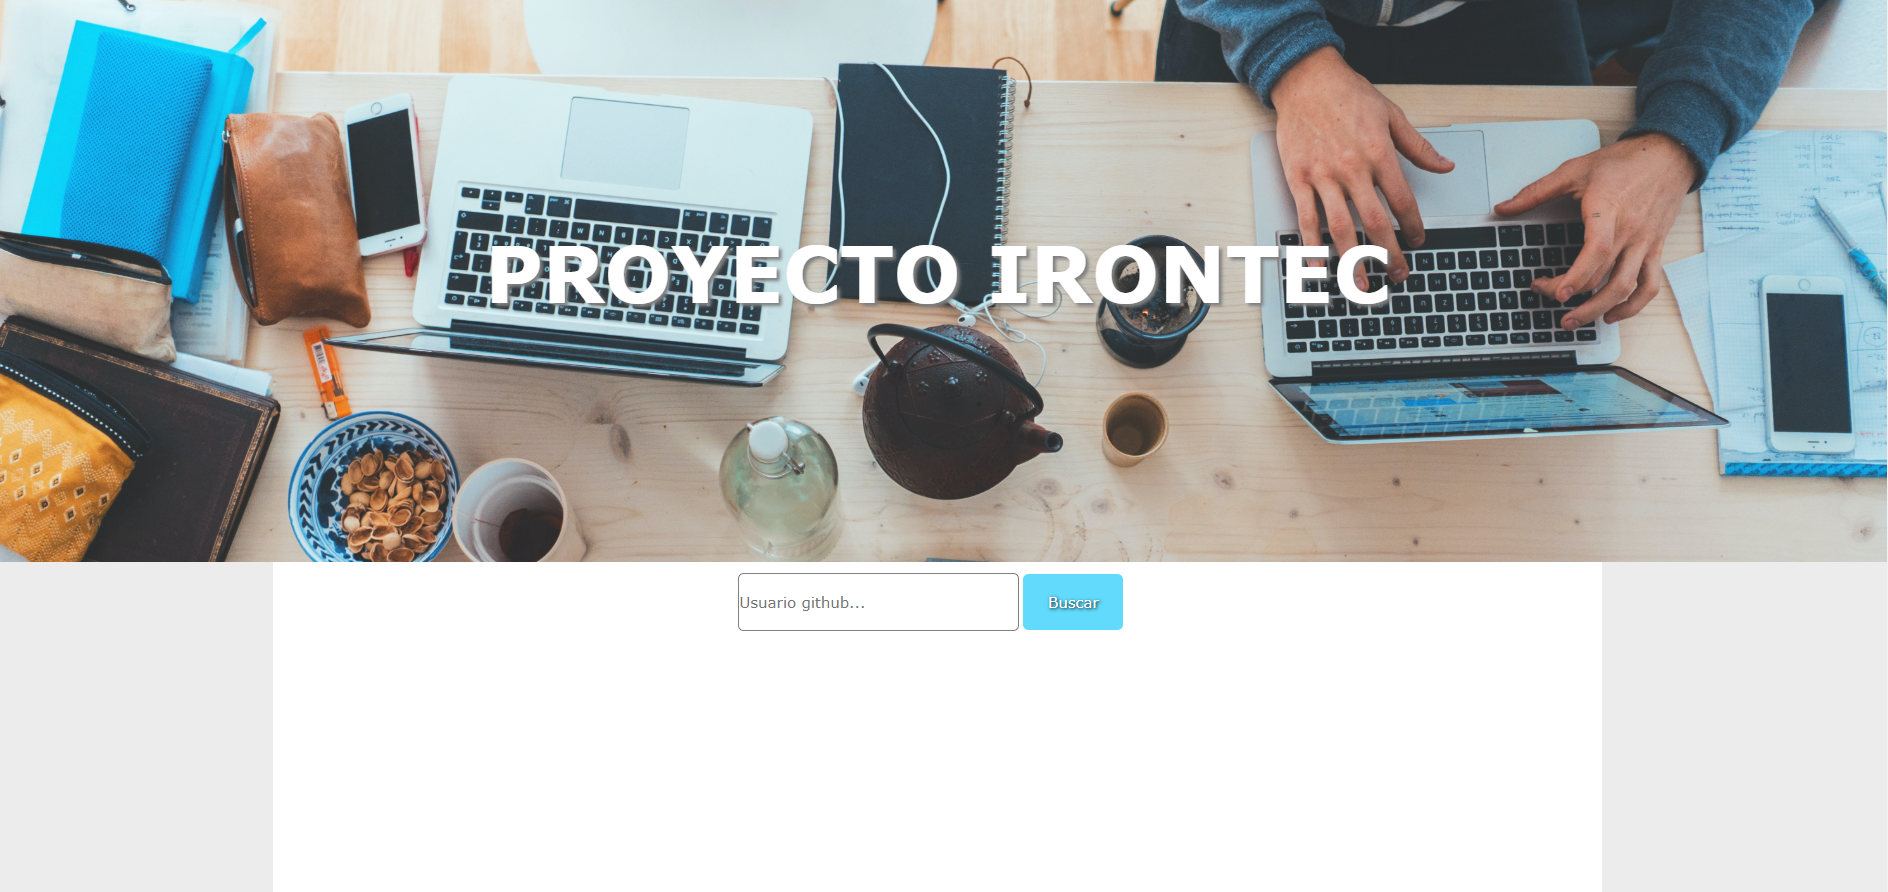
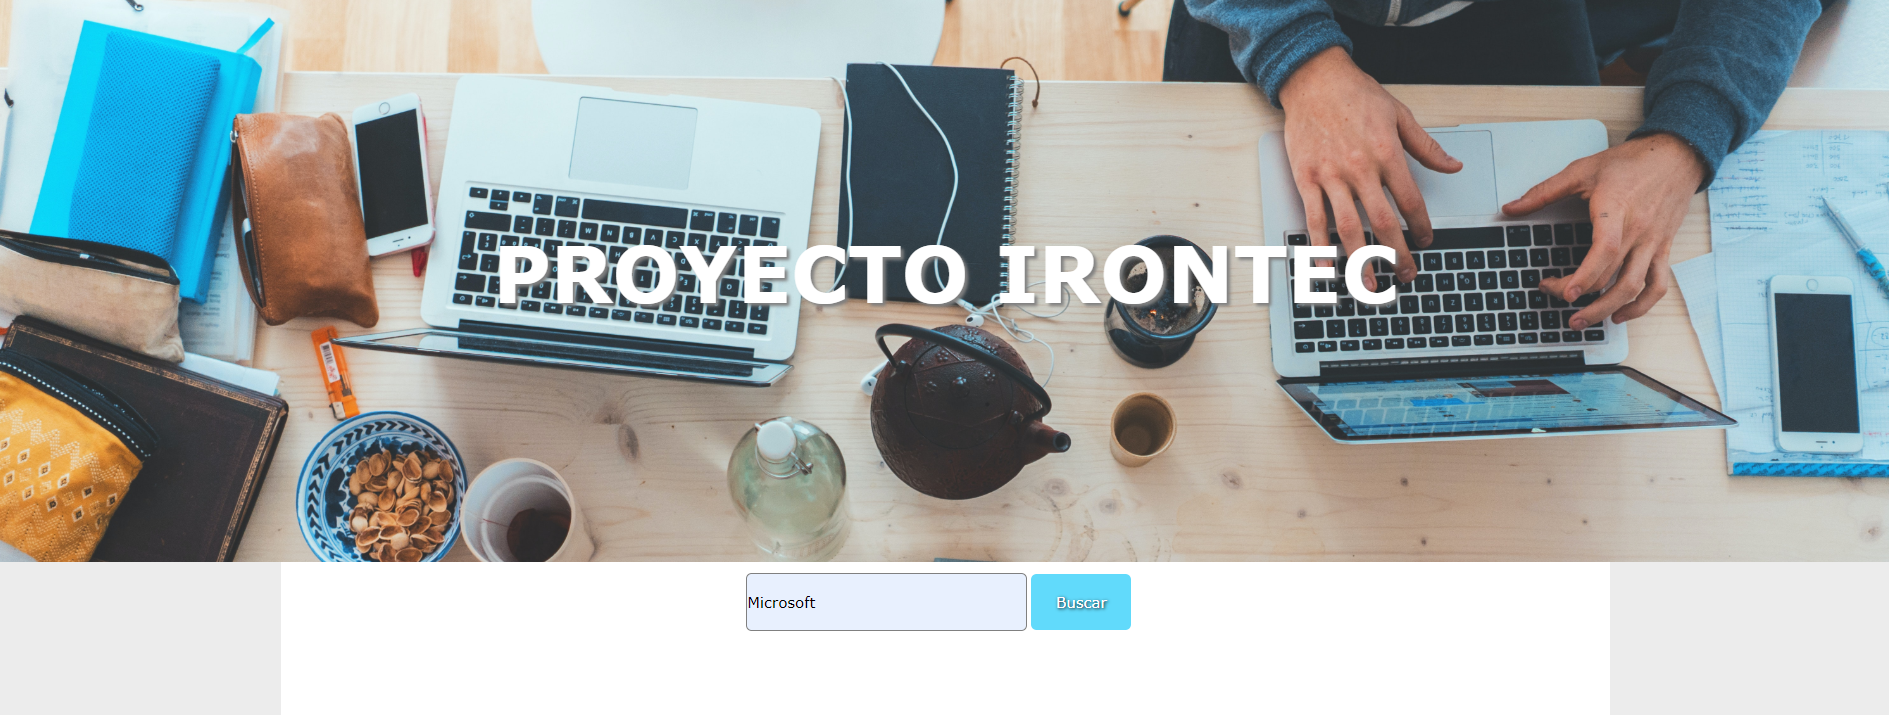
terminando los issues

diff --git a/src/app/pages/issues/issues.component.css b/src/app/pages/issues/issues.component.css
@@ -43,3 +43,48 @@
     /* background: blue; */
     float: left;
 }
+
+.divNombeRepositorio{
+    width: 100%;
+    height: 100px;
+    float: left;
+}
+
+.divNombeRepositorio h3{
+    text-align: center;
+    margin-top: 30px;
+}
+
+.divIssues{
+    width: 80%;
+    min-height: 50px;
+    margin-left: 10%;
+    /* margin-top: 20px; */
+    border: 1px solid gray; 
+    background: #F7F7F7;
+    /* box-shadow: 0px 0px 10px black; */
+    /* border-radius: 5px; */
+    float: left;
+}
+
+.divIssues a{
+    margin-top: 10px;
+    margin-left: 1%;
+    float: left;
+}
+
+.divIssues:hover{
+    background: #E0E0E0;
+}
+
+.labelName{
+    /* width: 10%; */
+    background: #85C3E5;
+    font: 15px;
+    border-radius: 10px;
+    padding: 5px;
+    margin-top: 10px;
+    color: white;
+    margin-left: 1%;
+    float: left;
+}

diff --git a/src/app/pages/issues/issues.component.ts b/src/app/pages/issues/issues.component.ts
@@ -26,12 +26,26 @@ export class IssuesComponent implements OnInit {
     console.log(this.usuarioGit);
     console.log(this.repoGit);
 
-    // getGitData(enviroment.rutarepos+'Microsoft/TypeScript/issues?labels=API')
-    getGitData(enviroment.rutarepos+this.usuarioGit+'/'+this.repoGit+'/issues?labels=API')
+    this.funcionFetch();
+  };
+
+  //funcion fetch
+  funcionFetch(){
+   
+    getGitData(enviroment.rutarepos+this.usuarioGit+'/'+this.repoGit+'/issues')
     .then((response:any) => {
       console.log(response)
+
+      if(response.toString()){
+        this.aparecerContenedor = true;
+        this.arrayIssues = response
+      }else{
+        alert('No hay issues')
+        window.location.href = '/';
+      }
+      
     })
     .catch(err => console.log(err))
-  };
+  }
 
 }

diff --git a/src/app/pages/issues/issues.component.html b/src/app/pages/issues/issues.component.html
@@ -4,8 +4,18 @@
         <h2>Issues</h2>
         <input [routerLink]="['/']" type='button' value="ir a inicio">
     </div>
+
+    <div class="divNombeRepositorio">
+        <h3>ISSUES DEL PROJECTO {{repoGit}}</h3>
+    </div>
     
     <div class="divContenedorIssues" *ngIf="aparecerContenedor">
-
+        <div class="divIssues" *ngFor="let index of arrayIssues">
+            <a [href]="index.html_url">{{index.title}}</a>
+            <label class="labelName" *ngFor="let indexDos of index.labels">{{indexDos.name}}</label>
+        </div>
     </div>
+
 </section>
+
+<!-- <label class="labelName" *ngIf="index.labels[0].name">{{index.labels[0].name}}</label> -->

diff --git a/README.md b/README.md
@@ -2,25 +2,26 @@
 
 Prueba para Irontec (en construccion)
 
-<img src="https://github.com/crislaez/Proyecto_Irontec/blob/master/src/assets/foto_proyecto.PNG" />
-<hr>
-<img src="https://github.com/crislaez/Proyecto_Irontec/blob/master/src/assets/foto_proyecto_2.PNG" />
-<hr>
-<img src="https://github.com/crislaez/Proyecto_Irontec/blob/master/src/assetsc/foto_proyecto_3.PNG" />
 
 ### Que hace el proyecto
 
 El proyecto busca usuarios del git y pinchando en cada repositorio mostraria las issues (Hecho con Angular, aprendiendo)
 
--1 escribimos el nombre del usuario del github, por ejemplo crislaez.
-
+-1 escribimos el nombre del usuario del github, por ejemplo Microsoft.
+<img src="https://github.com/crislaez/Proyecto_Irontec/blob/master/src/assets/foto_proyecto.PNG" />
+<hr>
 
 -2 la lista mostrara de 30 en 30, si damos a siguiente nos mostraria otros 30, 
   y si damos para atras nos mostraria los 30 anteriores (si se intenta ir mas atras de la pagina 1 no dejara y nos avisara con un alert, al igual que si estamos en la ultima pagina e intentamos continuar)
+<img src="https://github.com/crislaez/Proyecto_Irontec/blob/master/src/assets/foto_proyecto_2.PNG" />
+<img src="https://github.com/crislaez/Proyecto_Irontec/blob/master/src/assets/foto_proyecto_3.PNG" />
+<hr>
+-3 podemos pinchar en ver repo en git que nos llevaria al repo en el mismo github,  o podemos 
+  dar a ver 'Ver issues' y nos llevara a la pagina /issues del mismo projecto, donde nos los mostrara, si no tiene issues, nos avisara con un alert y nos redireccionara a la pagina anterior para pedir el nombre del usuario del git
+<img src="https://github.com/crislaez/Proyecto_Irontec/blob/master/src/assets/foto_proyecto_4.PNG" />
+<hr>
 
-
--3 podemos pinchar en ver repo en git que nos llevaria al repo en el mismo github, o podemos 
-  dar a ver 'Ver issues' y nos llevara a la pagina /issues del mismo projecto, donde nos los mostrara (esto ultimo aun en construccion)
+-4 si pinchamos en cada titulo del issue nos llevara a github para ver os comentarios
 
  
 ### Donde pueden recibir ayuda los usuarios con el proyecto
